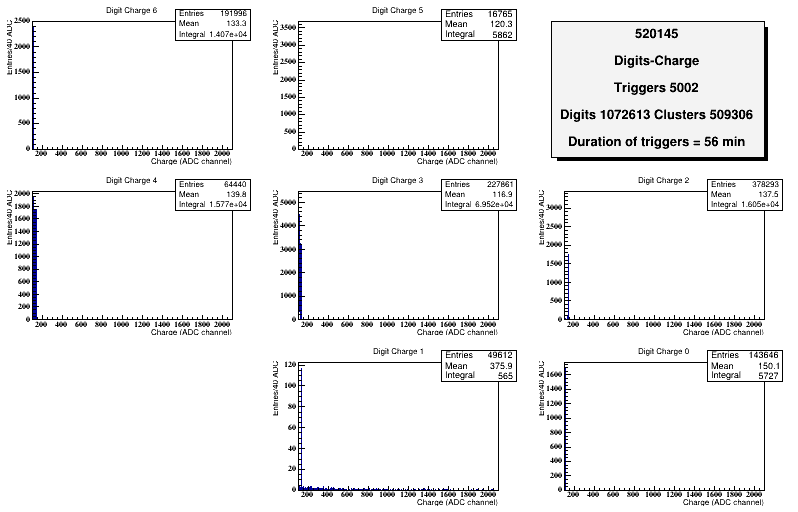
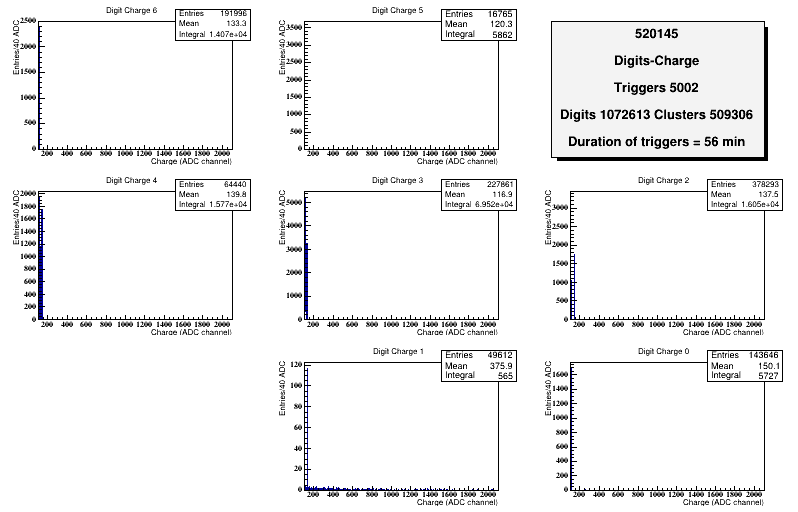
TPad::SetMargins......

diff --git a/520145/readClusters.C b/520145/readClusters.C
@@ -146,7 +146,7 @@ void readClusters(int nEvents) {
     digCharge[i].reset(new TH1F(canStringSize, canStringSize, 2000, 100., 2100.));
     digCharge[i]->SetXTitle("Charge (ADC channel)");
     digCharge[i]->SetYTitle("Entries/40 ADC");
-
+    digCharge[i]->SetLabelOffset(0.0065, "y");
 
 
     const char* canDigMap = Form("Digit Map %i", i);
@@ -170,10 +170,9 @@ void readClusters(int nEvents) {
   (canvas[2]).reset(new TCanvas(Form("Digit-Map %i",fname), Form("Digit-Map %i",fname), 1200, 1200));
 
 
-  canvas[0]->SetLeftMargin(.1);
-  canvas[1]->SetLeftMargin(.15);
-  canvas[2]->SetLeftMargin(.125);
-
+  canvas[0]->SetLeftMargin(.1+canvas[0]->GetLeftMargin());
+  canvas[1]->SetLeftMargin(.175+canvas[0]->GetLeftMargin());
+  canvas[2]->SetLeftMargin(.1+canvas[0]->GetLeftMargin());
 
   Int_t nTotTriggers = 0;
 
@@ -271,6 +270,7 @@ void readClusters(int nEvents) {
     const auto& pos = posArr[iCh];
     // ========== Digit MAP =========================
     auto pad5 = static_cast<TPad*>(canvas[2]->cd(pos));
+    pad5->SetLeftMargin(+.025+pad5->GetLeftMargin());
     const auto& pTotalDigs = static_cast<float>(100.0f*digMap[iCh]->GetEntries()/digSize);
     digMap[iCh]->SetTitle(Form("Chamber %i  of total = %02.1f", iCh, pTotalDigs));
     digMap[iCh]->Draw();
@@ -281,10 +281,17 @@ void readClusters(int nEvents) {
 
 
 
+  gStyle->SetStatW(0.3);
+  gStyle->SetStatH(0.6); 
+    
+
   for (int iCh = 0; iCh < 7; iCh++) {
     const auto& pos = posArr[iCh];
     // ========== MIP Charge =========================
     auto pad0 = static_cast<TPad*>(canvas[0]->cd(pos)); // Constant*TMath::Landau(1, [MPV], sigma, 0)
+
+
+    pad0->SetLeftMargin(-.025+pad0->GetLeftMargin());
     hMipCharge[iCh]->Fit("landau", "I"); // I = fit by integral
     //hMipCharge[iCh]->SetTitle(Form("Constant %03.1f \n MPV %03.1f Sigma %03.1f", Constant, MPV, Sigma));
     hMipCharge[iCh]->Draw();
@@ -292,7 +299,7 @@ void readClusters(int nEvents) {
   }
 
   gStyle->SetStatW(0.3);
-  gStyle->SetStatH(0.3); 
+  gStyle->SetStatH(0.6); 
   gStyle->SetOptStat("emr");
   gStyle->SetLabelOffset(0.00525, "y");
 
@@ -301,16 +308,16 @@ void readClusters(int nEvents) {
 
     // ========== Digit Charge =========================
     auto pad3 = static_cast<TPad*>(canvas[1]->cd(pos));
+    pad3->SetLeftMargin(+.025+pad3->GetLeftMargin());
     digCharge[iCh]->Draw();
   }
-
+  gStyle->SetStatH(0.2); 
 
   gStyle->SetOptStat("eim");
   gStyle->SetLabelOffset(0.008, "y");
 
-  canvas[0]->SetLeftMargin(.1);
-  canvas[1]->SetLeftMargin(.15);
-  canvas[2]->SetLeftMargin(.125);
+
+
 
   canvas[0]->SaveAs(Form("MIP_Cluster_Charge_%i_.png",fname));
   canvas[1]->SaveAs(Form("Digit_Charge_%i_.png",fname));
@@ -319,6 +326,8 @@ void readClusters(int nEvents) {
   canvas[0]->Show();
   canvas[1]->Show();
   canvas[2]->Show();
+
+
 
   sleep_for(5000ms);
 
